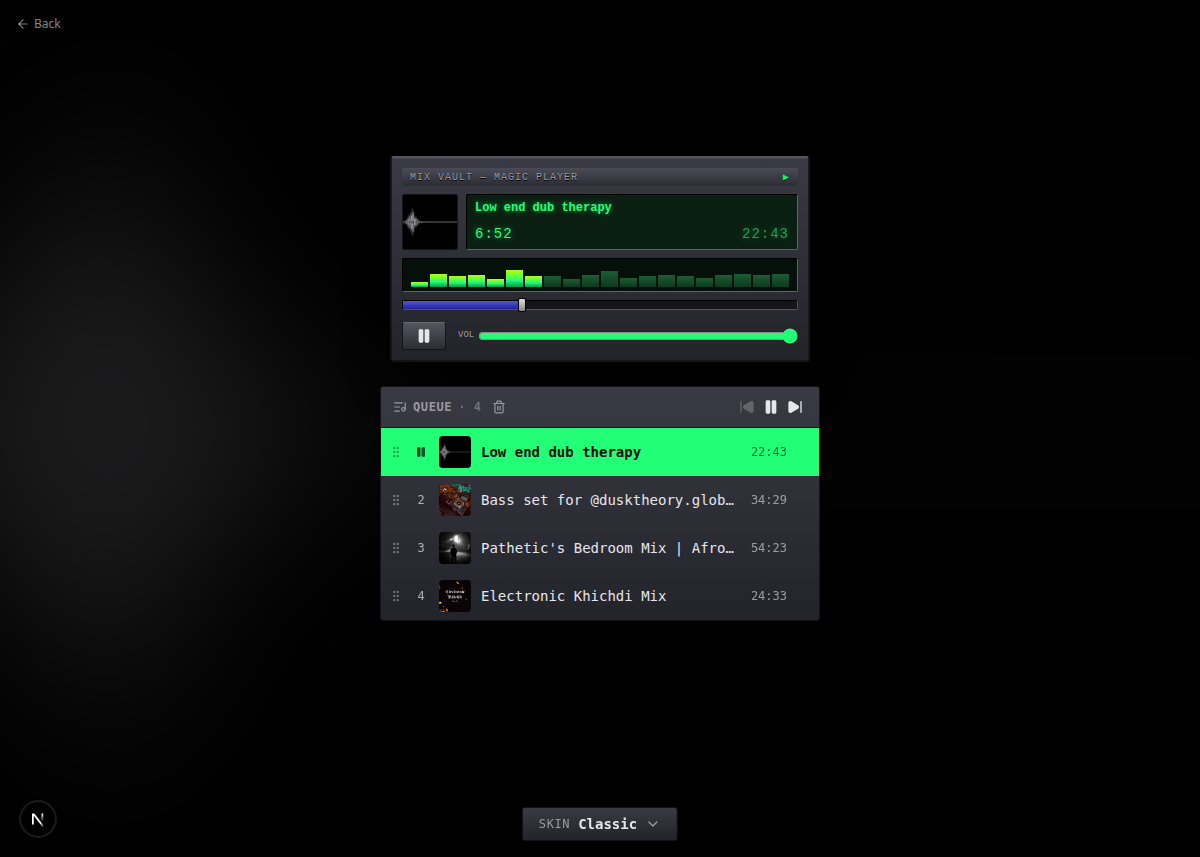
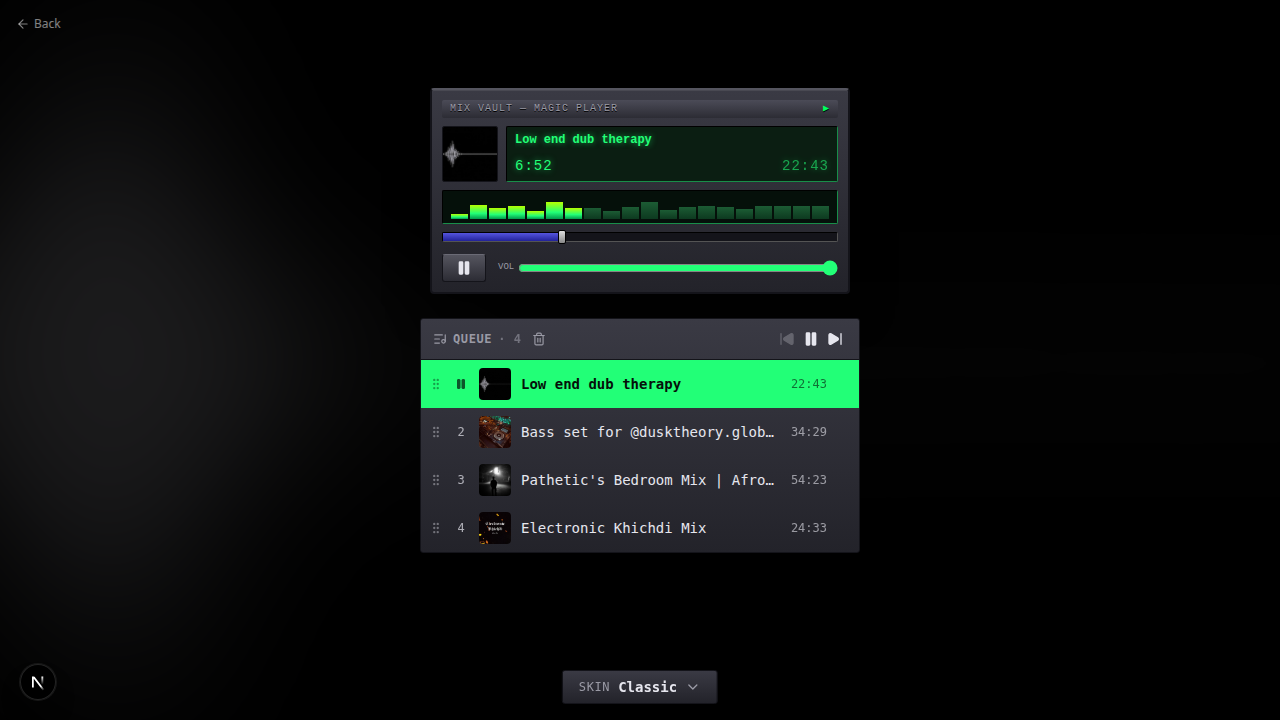
Expand README screenshots to a 2-wide 16:9 gallery
Recaptured home/track/player at 16:9 and added admin, downloads, and the
new-track form, laid out two side by side.

diff --git a/README.md b/README.md
@@ -13,11 +13,20 @@ mix-vault is a self-hosted streaming platform for DJs and producers to upload th
 
 ## Screenshots
 
-![Home](docs/screenshots/home.png)
-
-![Track page](docs/screenshots/track.png)
-
-![Player](docs/screenshots/player.png)
+<table>
+  <tr>
+    <td><img src="docs/screenshots/home.png" alt="Home" /></td>
+    <td><img src="docs/screenshots/track.png" alt="Track page" /></td>
+  </tr>
+  <tr>
+    <td><img src="docs/screenshots/player.png" alt="Player" /></td>
+    <td><img src="docs/screenshots/downloads.png" alt="Downloads" /></td>
+  </tr>
+  <tr>
+    <td><img src="docs/screenshots/admin.png" alt="Admin" /></td>
+    <td><img src="docs/screenshots/new-track.png" alt="New track form" /></td>
+  </tr>
+</table>
 
 ## Tech Stack
 
